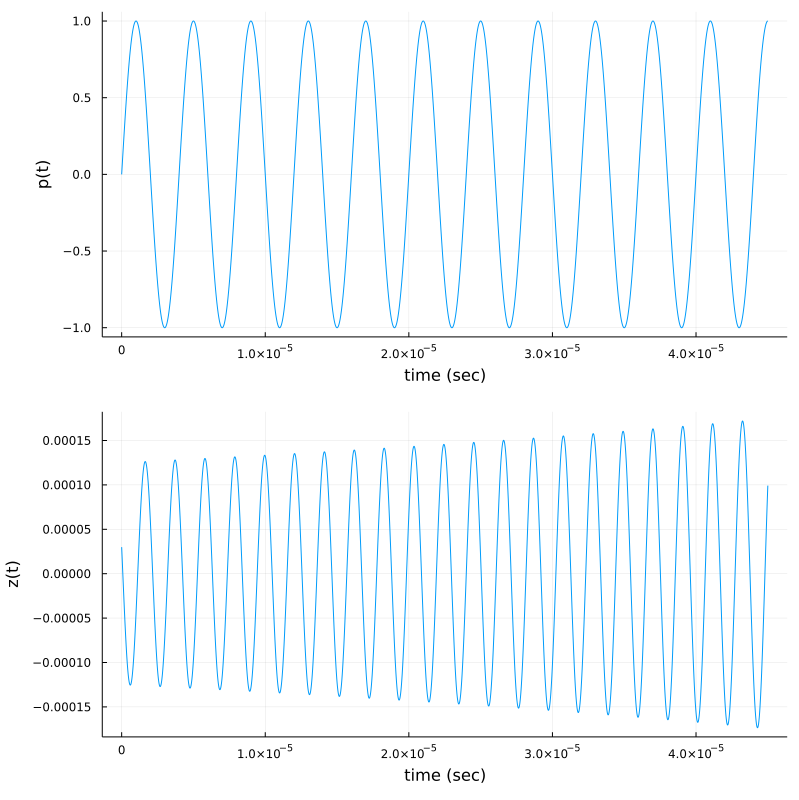
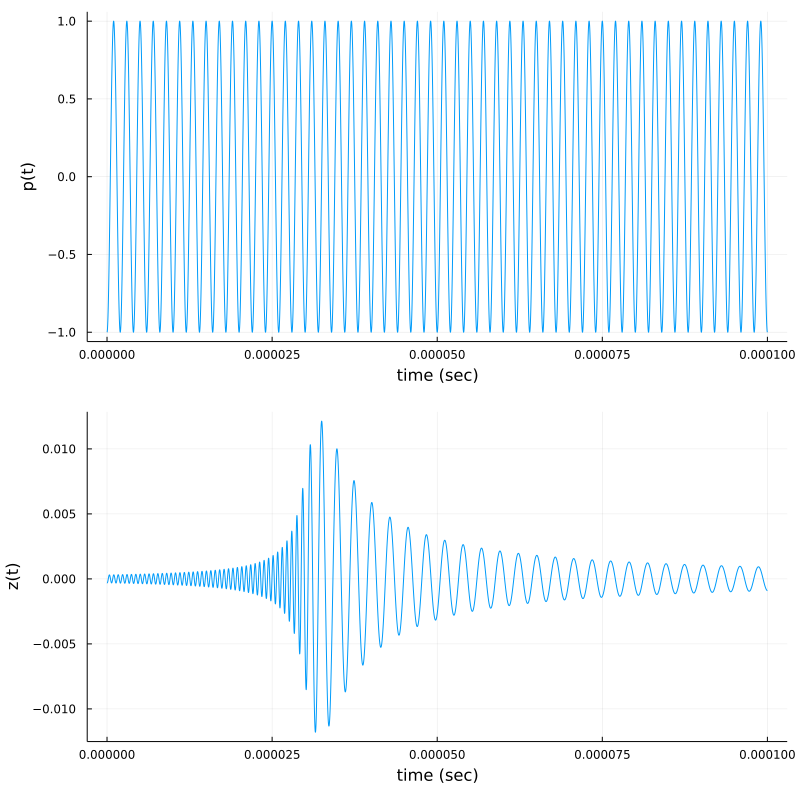
update LTV Doppler scenarios

diff --git a/docs/src/modelingLTV Doppler/modelLTVDoppler.md b/docs/src/modelingLTV Doppler/modelLTVDoppler.md
@@ -47,16 +47,18 @@ $z(t) = \mathsf{A}\left(\frac{\frac{s\|t\|}{\|1 \pm \mathrm{s}/\mathrm{c}\|}}{\m
 ```julia
 using LTVsystems
 using Plots
-s = 0.025c
+s = 0.45c 
 𝐯 = [1.0, 0.0]  
-tₚ = 1.0e-06
-𝐩ₛ(t) = [0.18e-06c,0.0] .+ s.*𝐯.*t
-𝐩ᵣ = [5.25e-06c,0.0]
+𝐩ₛ₀= [-15.0e-06c,0.0]
+𝐩ₛ(t) = 𝐩ₛ₀ .+ s.*𝐯.*t
+𝐩ᵣ = [2.0e-06c,1.5e-06c] 
 f = 5e05
-p(t) = 10cos(2π*f*(t-tₚ))
+ω = 2π*f
+tₚ = 1.0e-06
+p(t) = 10cos(ω*(t-tₚ))
 q = LTVsourceO(𝐩ₛ, p)
 z = LTIreceiverO([q],𝐩ᵣ)
-t=0.0:1.0e-08:25.0e-06
+t=0.0:1.0e-08:100.0e-06
 p1=plot(t,p, xlab="time (sec)", ylab="p(t)", legend=:false)
 p2=plot(t,z(t), xlab="time (sec)", ylab="z(t)", legend=:false)
 plot(p1,p2,layout=(2,1),size=(800,800))
@@ -75,16 +77,17 @@ plot(p1,p2,layout=(2,1),size=(800,800))
 ```julia
 using LTVsystems
 using Plots
-𝐩ₛ =  [0.15e-06c,0.0]  
-s = 0.25c 
-𝐯 = [1.0, 0.0] 
+𝐩ₛ =  [-15.0e-06c,-1.5e-06c]  
+s = 0.45c 
+𝐯 = [-1.0, 0.0] 
 tₚ = 1.0e-06 
-𝐩ᵣ(t) = 𝐩ₛ .+ s.*𝐯.*t
+𝐩ᵣ₀ = [5.0e-06c,0.0]
+𝐩ᵣ(t) = 𝐩ᵣ₀ .+ s.*𝐯.*t
 f = 5e05
 p(t) = 10cos(2π*f*(t-tₚ))
 q = LTIsourceO(𝐩ₛ, p)   
 z = LTVreceiverO([q],𝐩ᵣ)  
-t=0.0e-06:1.0e-07:25.0e-06
+t=0.0:1.0e-08:100.0e-06
 p1=plot(t,p, xlab="time (sec)", ylab="p(t)", legend=:false)
 p2=plot(t,z(t), xlab="time (sec)", ylab="z(t)", legend=:false)
 plot(p1,p2,layout=(2,1),size=(800,800))
@@ -103,18 +106,18 @@ plot(p1,p2,layout=(2,1),size=(800,800))
 ```julia
 using LTVsystems
 using Plots
-s₁ = 0.35c 
+s₁ = 0.75c  
 𝐯₁ = [1.0, 0.0]  
-s₂ = 0.25c 
-𝐯₂ = [-1.0, 0.0]  
+s₂ = 0.25c  
+𝐯₂ = [1.0, 0.0]  
 tₚ = 1.0e-06
-𝐩ₛ(t) = [5.0e-06c,0.0] .+ s₁.*𝐯₁.*t 
-𝐩ᵣ(t) = [100.0e-06c,0.0] .+ s₂.*𝐯₂.*t 
-f = 0.25e06
+𝐩ₛ(t) = [-10.0e-06c,-1.5e-06c] .+ s₁.*𝐯₁.*t 
+𝐩ᵣ(t) = [5.0e-06c,0.0] .+ s₂.*𝐯₂.*t 
+f = 5e05
 p(t) = cos(2π*f*(t-tₚ))
 q = LTVsourceO(𝐩ₛ, p)
 z = LTVreceiverO([q],𝐩ᵣ)
-t=0.0:1.0e-08:25.0e-06
+t=0.0:1.0e-08:100.0e-06
 p1=plot(t,p, xlab="time (sec)", ylab="p(t)", legend=:false)
 p2=plot(t,z(t), xlab="time (sec)", ylab="z(t)", legend=:false)
 plot(p1,p2,layout=(2,1),size=(800,800))
